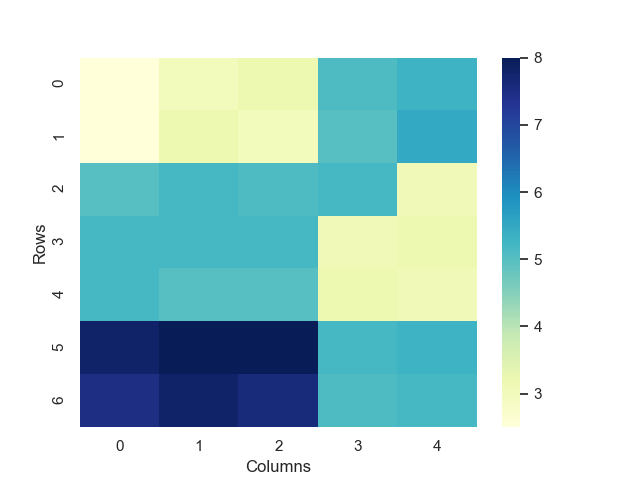
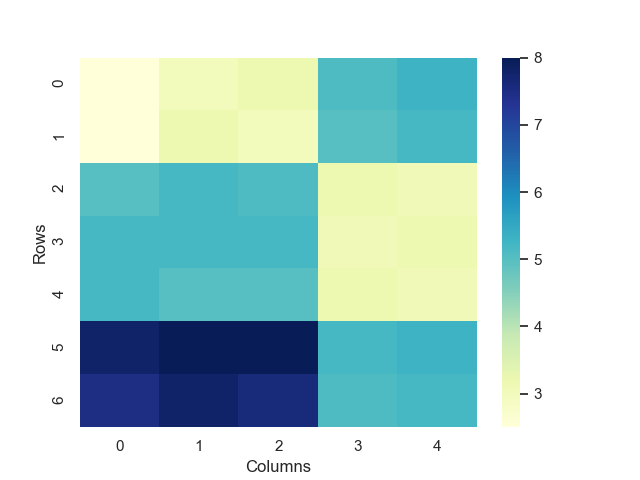
Updated images

Changed region(s): [[0.5, 0.3125, 0.625, 0.4688]]

diff --git a/test.py b/test.py
@@ -5,12 +5,12 @@ import timeit
 def basic_test():
     # Generate synthethic data
     list_of_list = [[2.5, 3.0, 3.2, 5.1, 5.3],
-                    [2.5, 3.2, 3.0, 5.0, 5.5],
-                    [5.0, 5.2, 5.1, 0, 3.1],
+                    [2.5, 3.2, 3.0, 5.0, 0.0],
+                    [5.0, 5.2, 5.1, 3.2, 3.1],
                     [5.2, 5.2, 0.0, 3.1, 3.2],
                     [0.0, 5.0, 5.0, 3.2, 3.1],
                     [7.8, 8.0, 8.0, 5.2, 5.3],
-                    [7.5, 7.8, 7.6, 5.1, 5.2]]
+                    [7.5, 7.8, 7.6, 5.1, 0.0]]
 
     # Create array from lists and convert to rpy2-array
     array = np.array(list_of_list)
